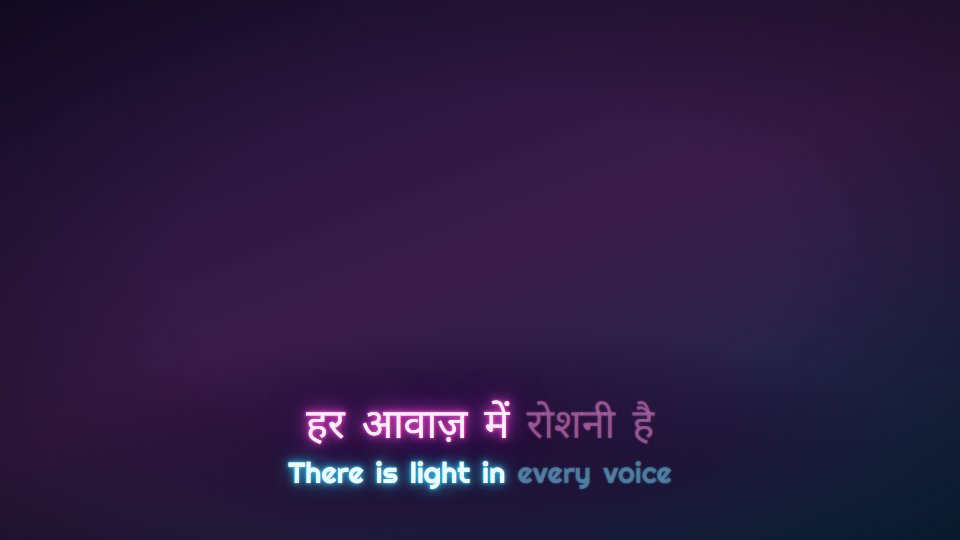
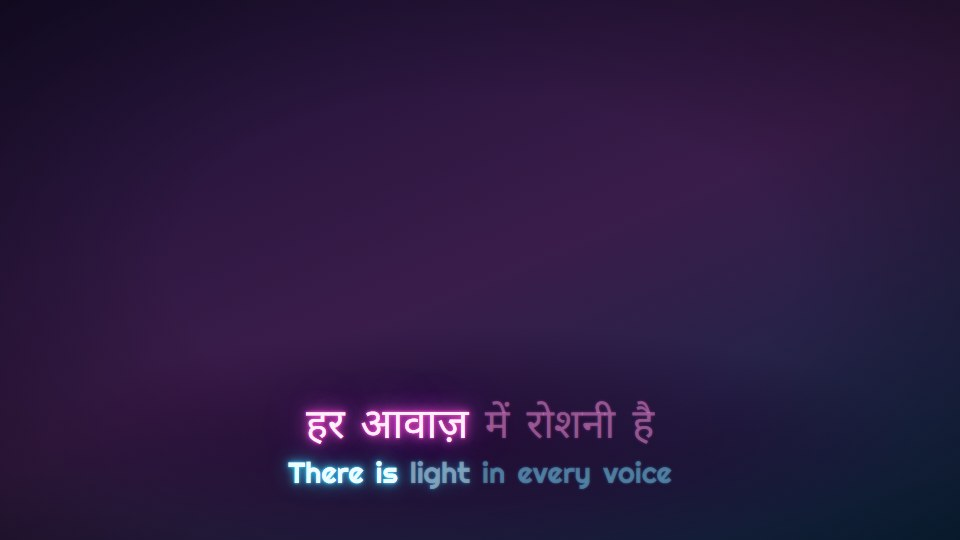
Frame-exact video, exact-frame verification, settled preset gallery
- Background uses OffthreadVideo so stills and renders draw identical frames
- Final-video check grabs the exact frame QC used (was off by one at cuts);
  match threshold tightened
- Preset gallery rendered at a settled moment

Changed region(s): [[0.375, 0.7111, 0.5625, 0.9185]]

diff --git a/src/render/Background.tsx b/src/render/Background.tsx
@@ -1,6 +1,6 @@
-import { Audio, Video } from "@remotion/media";
+import { Audio } from "@remotion/media";
 import React from "react";
-import { AbsoluteFill, Img, staticFile } from "remotion";
+import { AbsoluteFill, Img, OffthreadVideo, staticFile } from "remotion";
 import { cropsHeavily, videoRect } from "../core/frame";
 import type { Project } from "../schema/project";
 import { useRender } from "./context";
@@ -10,6 +10,9 @@ import { useRender } from "./context";
  * core/frame.ts: when the output shape differs from the source (e.g. 9:16 from
  * 16:9 footage) the crop follows the faces; "blur" mode shows the whole video
  * over a soft, enlarged copy instead of cropping.
+ *
+ * OffthreadVideo extracts the exact frame for every render and still, so QC
+ * frames and the final video always show the same picture.
  */
 export const Background: React.FC<{ project: Project }> = ({ project }) => {
   const { t, framing, focus, width: W, height: H } = useRender();
@@ -39,32 +42,17 @@ export const Background: React.FC<{ project: Project }> = ({ project }) => {
               scale: "1.08",
             }}
           >
-            <Video
-              src={src}
-              muted
-              objectFit="fill"
-              style={{ width: "100%", height: "100%" }}
-            />
+            <OffthreadVideo src={src} muted style={{ width: "100%", height: "100%", objectFit: "fill" }} />
           </div>
           <div style={box(r)}>
-            <Video
-              src={src}
-              muted={separateAudio}
-              objectFit="fill"
-              style={{ width: "100%", height: "100%" }}
-            />
+            <OffthreadVideo src={src} muted={separateAudio} style={{ width: "100%", height: "100%", objectFit: "fill" }} />
           </div>
         </>
       );
     } else {
       layer = (
         <div style={box(r)}>
-          <Video
-            src={src}
-            muted={separateAudio}
-            objectFit="fill"
-            style={{ width: "100%", height: "100%" }}
-          />
+          <OffthreadVideo src={src} muted={separateAudio} style={{ width: "100%", height: "100%", objectFit: "fill" }} />
         </div>
       );
     }

diff --git a/scripts/lib/qc.ts b/scripts/lib/qc.ts
@@ -575,6 +575,7 @@ export async function verifyVideo(
   video: string,
   ffmpeg: string,
   env: NodeJS.ProcessEnv,
+  fps: number,
 ): Promise<{ ok: boolean; worst: number }> {
   const dir = path.join(p.review, "qc", fmt.label);
   const frames = fs.existsSync(dir)
@@ -596,8 +597,10 @@ export async function verifyVideo(
         "-y",
         "-v",
         "error",
+        // The same frame the QC still used (frame = round(t * fps)); seek half a frame
+        // early so ffmpeg lands on it rather than the next one.
         "-ss",
-        String(r.t),
+        String(Math.max(0, (Math.round(r.t * fps) - 0.5) / fps)),
         "-i",
         video,
         "-frames:v",
@@ -621,7 +624,7 @@ export async function verifyVideo(
   const worst = Math.max(0, ...res.map((r) => r.diff));
   for (const pr of pairs) fs.rmSync(pr.video, { force: true });
   fs.rmSync(job, { force: true });
-  return { ok: worst < 18, worst };
+  return { ok: worst < 8, worst };
 }
 
 export { DEFAULT_FONT_FOR_SCRIPT };

diff --git a/scripts/cli.ts b/scripts/cli.ts
@@ -406,7 +406,7 @@ async function renderFormats(
     ok(`Saved ${out}`);
     if (qc && from === undefined && to === undefined) {
       const b = ffBinaries();
-      const v = await verifyVideo(p, fmt, out, b.ffmpeg, b.env);
+      const v = await verifyVideo(p, fmt, out, b.ffmpeg, b.env, fps);
       if (v.ok) ok(`The rendered video matches the checked frames`);
       else
         warn(

diff --git a/scripts/preset-gallery.ts b/scripts/preset-gallery.ts
@@ -11,7 +11,7 @@ import { ROOT, py, readJson, writeJson } from "./lib/util";
 
 const DEMO = path.join(ROOT, "examples", "demo");
 const TMP = path.join(ROOT, ".cache", "gallery");
-const TIME = Number(process.argv[2] ?? 8.2);
+const TIME = Number(process.argv[2] ?? 7.4);
 
 async function main() {
   fs.rmSync(TMP, { recursive: true, force: true });
